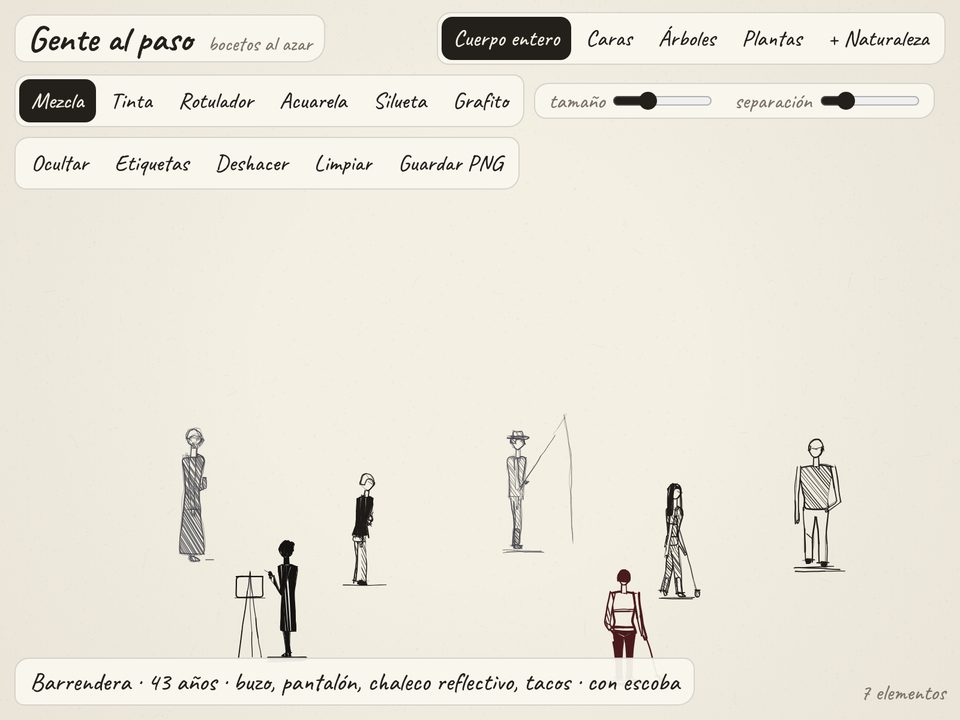
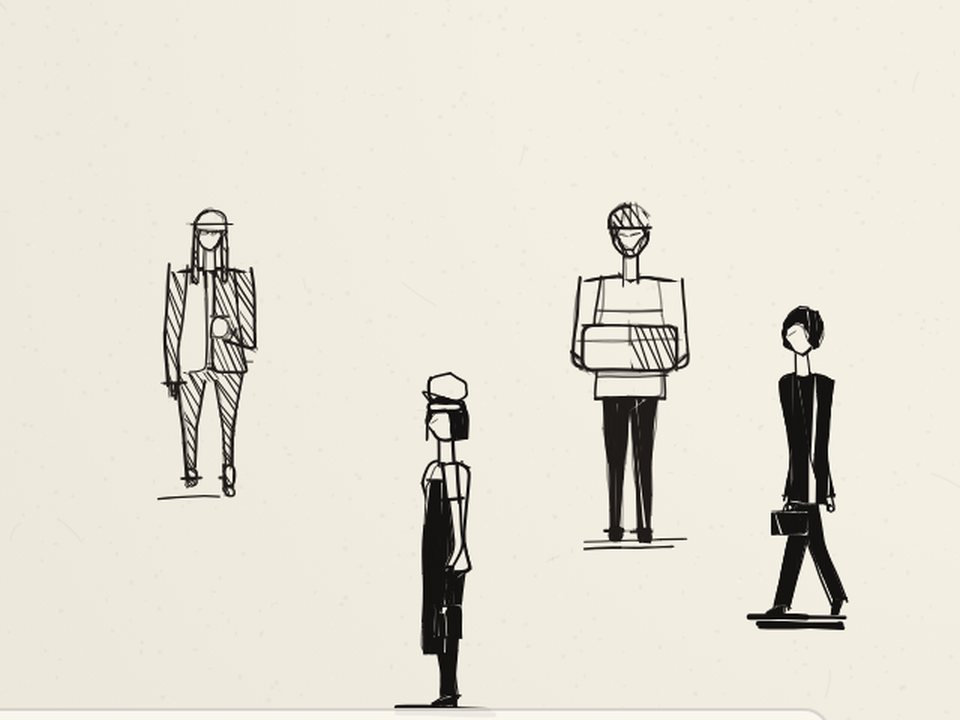
Sumar Gente al paso a la landing (seccion Herramientas)

diff --git a/index.html b/index.html
@@ -37,7 +37,7 @@
 <body>
 <header>
   <a class="marca" href="./"><span class="led"></span>Estudio83</a>
-  <nav><a href="#radios">Radios</a><a href="#instrumentos">Instrumentos</a><a href="#juegos">Juegos</a></nav>
+  <nav><a href="#radios">Radios</a><a href="#instrumentos">Instrumentos</a><a href="#juegos">Juegos</a><a href="#herramientas">Herramientas</a></nav>
 </header>
 <section class="intro">
   <h1>Piezas<br>interactivas</h1>
@@ -66,6 +66,11 @@
   <a class="card" data-goatcounter-click="indice-abrir-tetera" data-goatcounter-title="Índice: abrir tetera" href="https://estudio83-ship-it.github.io/estudio83/tetera/"><img src="img/tetera.jpg" alt="Tetera Táctil"><div class="txt"><div><h3>Tetera Táctil</h3><p>Inclinar la tetera y llenar la taza justo hasta la marca.</p><span class="tag">CON CLAVE</span></div><span class="abrir">Abrir →</span></div></a>
 </div>
 
+
+<h2 id="herramientas">HERRAMIENTAS</h2>
+<div class="grilla">
+  <a class="card" data-goatcounter-click="indice-abrir-gente" data-goatcounter-title="Índice: abrir gente" href="https://estudio83-ship-it.github.io/estudio83/gente/"><img src="img/gente.jpg" alt="Gente al paso"><div class="txt"><div><h3>Gente al paso</h3><p>Genera personas, árboles y plantas bocetadas al azar, para dibujar o diseñar.</p></div><span class="abrir">Abrir →</span></div></a>
+</div>
 
 <footer>© 2026 Estudio83</footer>
 <script data-goatcounter="https://estudio83.goatcounter.com/count" async src="//gc.zgo.at/count.js"></script>
